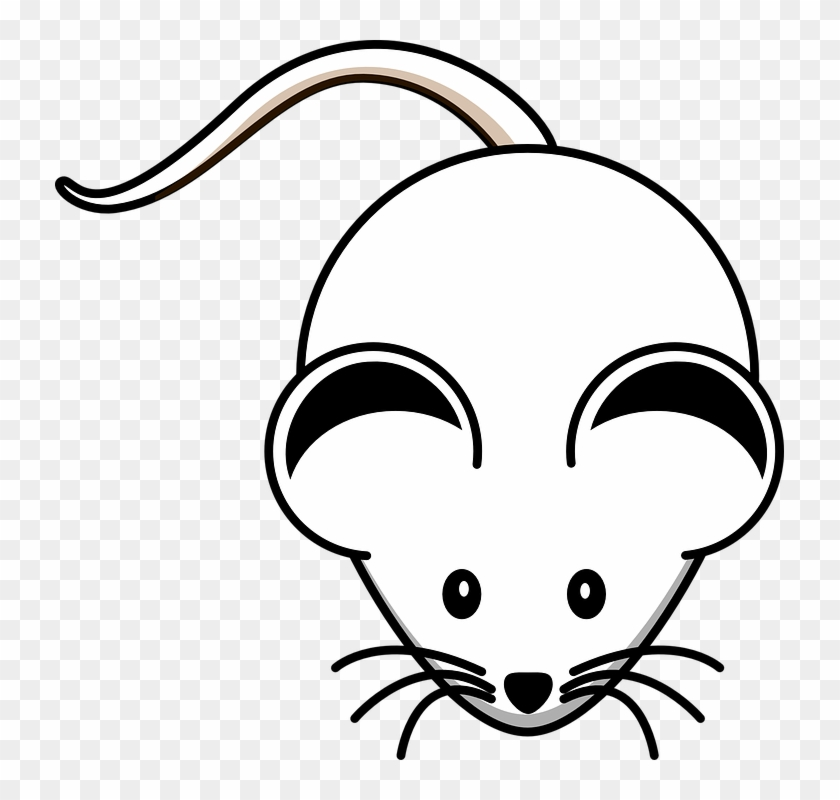
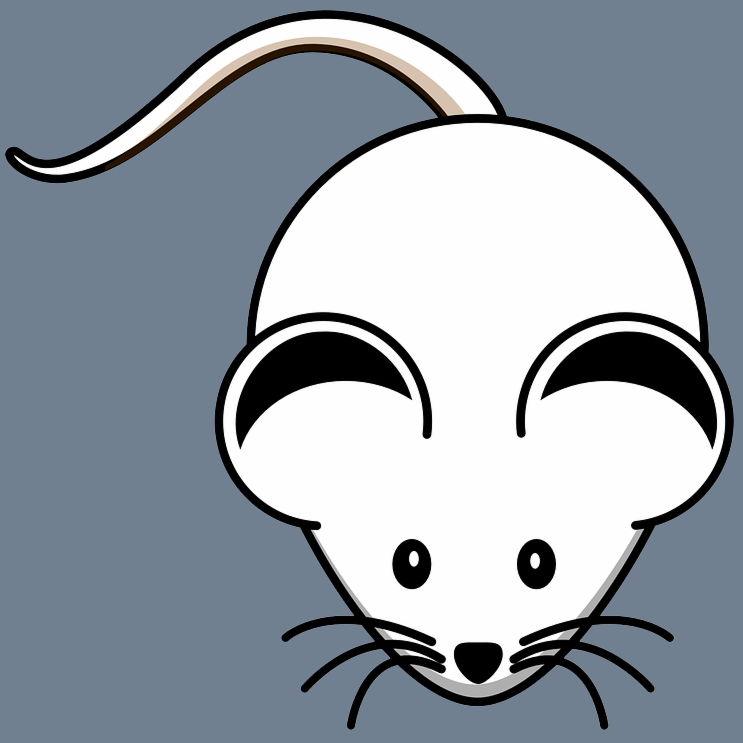
working collision detection

diff --git a/cat-mouse-game/src/game.js b/cat-mouse-game/src/game.js
@@ -2,29 +2,29 @@ import Mouse from "./mouse.js";
 import Cat from "./cat.js";
 import InputHandler from "./input.js";
 
-// console.log("game loaded");
-
-const GAMESTATE = {
-    PAUSED: 0,
-    RUNNING: 1,
-    MENU: 2,
-    GAMEOVER: 3,
-};
+// const GAMESTATE = {
+//     PAUSED: 0,
+//     RUNNING: 1,
+//     MENU: 2,
+//     GAMEOVER: 3,
+// }
 
 export default class Game {
     constructor(gameWidth, gameHeight) {
         this.gameWidth = gameWidth;
         this.gameHeight = gameHeight;
-        this.gamestate = GAMESTATE.MENU;
         this.cat = new Cat(this);
         this.mouse = new Mouse(this);
         this.gameObjects = [];
-        this.lives = 3;
+        // this.gamestate = GAMESTATE.MENU;
     }
 
     start() {
-        this.mouse = new Mouse(this);
-        this.cat = new Cat(this);
+        this.gameObjects = [
+            this.mouse,
+            this.cat
+        ];
+
         new InputHandler(this.mouse);
 
         // if (
@@ -34,36 +34,43 @@ export default class Game {
         //     return;
         
         // this.cat.reset();
-        // this.gameObjects = [this.cat, this.rat];
         // this.gamestate = GAMESTATE.RUNNING;    
     }
 
     update(deltaTime) {
-        this.mouse.update(deltaTime);
-        this.cat.update(deltaTime);
-
+        this.gameObjects.forEach(object => object.update(deltaTime))
+        
         // if (this.lives === 0) this.gamestate = GAMESTATE.GAMEOVER;
-
+        
         // if (
-        //     this.gamestate === GAMESTATE.PAUSED ||
-        //     this.gamestate === GAMESTATE.MENU ||
+            //     this.gamestate === GAMESTATE.PAUSED ||
+            //     this.gamestate === GAMESTATE.MENU ||
+            //     this.gamestate === GAMESTATE.GAMEOVER
+            // )
+            //     return;
+    };
+
+    detectCollision(mouse, cat) {
+        let rectM = mouse
+        let rectC = cat
+
+        if (rectM.position.x < rectC.position.x + rectC.width &&
+            rectM.position.x + rectM.width > rectC.position.x &&
+            rectM.position.y < rectC.position.y + rectC.height &&
+            rectM.position.y + rectM.height > rectC.position.y) {
+            console.log("collision detected!");   
+            return true;
+            }    
+
+        // if (detectCollision(mouse, cat)) {
         //     this.gamestate === GAMESTATE.GAMEOVER
-        // )
-        //     return;
+        //  ** add here - meow or mouse squeak audio file **
         // }    
-
-        // [...this.gameObjects, ...this.bricks].forEach(object =>
-        //     object.update(deltaTime)
-        //     );
-
-        // this.bricks = this.bricks.filter(brick => !brick.markedForDeletion);    
     }
 
     draw(ctx) {       
-        this.mouse.draw(ctx); 
-        this.cat.draw(ctx);
-    }    
-    //     [...this.gameObjects, ...this.bricks].forEach(object => object.draw(ctx));
+        this.gameObjects.forEach(object => object.draw(ctx))
+    };    
 
     //     if (this.gamestate === GAMESTATE.PAUSED) {
     //         ctx.rect(0, 0, this.gameWidth, this.gameHeight);

diff --git a/cat-mouse-game/src/mouse.js b/cat-mouse-game/src/mouse.js
@@ -2,7 +2,8 @@ export default class Mouse {
 
     constructor(game) {
         this.image = document.getElementById("img_mouse");
-        this.size = 60;
+        this.width = 60;
+        this.height = 60;
         this.gameWidth = game.gameWidth;
         this.gameHeight = game.gameHeight;
 
@@ -12,8 +13,8 @@ export default class Mouse {
         this.speedY = 0;
 
         this.position = {
-            x: game.gameWidth / 2 - this.size / 2,
-            y: game.gameHeight / 2 - this.size / 2
+            x: game.gameWidth / 2 - this.width / 2,
+            y: game.gameHeight / 2 - this.height / 2
         }
     }
 
@@ -22,8 +23,8 @@ export default class Mouse {
             this.image, 
             this.position.x, 
             this.position.y, 
-            this.size, 
-            this.size
+            this.width, 
+            this.height
         );
     }    
 
@@ -51,17 +52,13 @@ export default class Mouse {
     update(deltaTime) {
 
         this.position.x += this.speedX;
-
             if (this.position.x < 0) this.position.x = 0;
-
-            if (this.position.x + this.size > this.gameWidth)
-                this.position.x = this.gameWidth - this.size;
+            if (this.position.x + this.width > this.gameWidth)
+                this.position.x = this.gameWidth - this.width;
 
         this.position.y += this.speedY;
-
-            if (this.position.y < 0) this.position.y = 0;
-    
-            if (this.position.y + this.size > this.gameHeight)
-                this.position.y = this.gameHeight - this.size;    
+            if (this.position.y < 0) this.position.y = 0; 
+            if (this.position.y + this.height > this.gameHeight)
+                this.position.y = this.gameHeight - this.height;            
     }
 }

diff --git a/cat-mouse-game/src/cat.js b/cat-mouse-game/src/cat.js
@@ -1,14 +1,14 @@
 export default class Cat {
 
+//?Create an array of cats so they can be from different positions and directions?
+    
     constructor(game) {
-        this.image = document.getElementById("img_cat");
+        this.image = document.getElementById("img_cat2");
         this.gameWidth = game.gameWidth;
         this.gameHeight = game.gameHeight;
-        this.size = 80;
-        this.reset();
-    }
-
-    reset() {
+        this.game = game;
+        this.width = 80;
+        this.height = 100;
         this.position = { x: 100, y: 400 };
         this.speed = { x: 3, y: -2 };
     }
@@ -18,18 +18,13 @@ export default class Cat {
             this.image, 
             this.position.x, 
             this.position.y, 
-            this.size, 
-            this.size
+            this.width, 
+            this.height
             );
     }    
     
     update(deltaTime) {
         this.position.x += this.speed.x;
         this.position.y += this.speed.y;
-
-        // if (detectCollision(this, this.game.paddle)) {
-        //     this.speed.y = -this.speed.y;
-        //     this.position.y = this.game.paddle.position.y - this.size;
-        // }
     }    
 }

diff --git a/cat-mouse-game/index.html b/cat-mouse-game/index.html
@@ -5,20 +5,15 @@
   <meta name="viewport" content="width=device-width, initial-scale=1.0">
   <meta http-equiv="X-UA-Compatible" content="ie=edge">
   <title>Cat and Mouse</title>
+  <link rel="stylesheet" href="./src/style.css">
   <script type="module" src="./src/index.js" defer></script>
 </head>
-<style>
-  #gameScreen {
-    background-color: #708090;
-  }
-  img {
-    display: none;
-  }
-</style>
 <body>
   <canvas id="gameScreen" width="600" height="600"></canvas>
   <img id="img_mouse" src="./images/mouse.png">
-  <img id="img_cat" src="./images/cat.png">
+  <img id="img_cat" src="./images/cat1.png">
+  <img id="img_cat2" src="./images/cat2.png">
+
 </body>
 </html>
 

diff --git a/cat-mouse-game/src/collisionDetection.js b/cat-mouse-game/src/collisionDetection.js
@@ -1,0 +1,25 @@
+export function detectCollision() {
+    let mouse;
+    let cat;
+
+    for (let i = 0; i < gameObjects.length; i++) {
+        gameObjects[i].isColliding = false;
+    }
+
+    for (let i = 0; i < gameObjects.length; i++) {
+        mouse = gameObjects[i];
+        for (let j = i + 1; j < gameObjects.length; j++)
+        {
+            cat = gameObjects[j];
+
+            if (rectIntersect(mouse.x, mouse.y, mouse.width, mouse.height, cat.x, cat.y, cat.width, cat.height)) {
+                mouse.isColliding = true;
+                cat.isColliding = true;
+            }
+        }
+    }
+
+    rectIntersect()
+}
+
+

diff --git a/cat-mouse-game/src/index.js b/cat-mouse-game/src/index.js
@@ -6,8 +6,6 @@ import Game from "./game.js";
 let canvas = document.getElementById("gameScreen");
 let ctx = canvas.getContext("2d");
 
-let imgCat = document.getElementById("img_cat");
-
 const GAME_WIDTH = 600;
 const GAME_HEIGHT = 600;
 
@@ -17,12 +15,13 @@ game.start();
 let lastTime = 0;
 
 function gameLoop(timestamp) {
-
+    
     let deltaTime = timestamp - lastTime;
     lastTime = timestamp;
-
-    ctx.clearRect(0, 0, 600, 600);
+    game.detectCollision(game.mouse, game.cat);
     
+    ctx.clearRect(0, 0, 600, 600);
+
     game.update(deltaTime);
     game.draw(ctx);
 

diff --git a/cat-mouse-game/src/style.css b/cat-mouse-game/src/style.css
@@ -1,0 +1,7 @@
+#gameScreen {
+    background-color: #708090;
+  }
+  
+img {
+    display: none;
+  }
